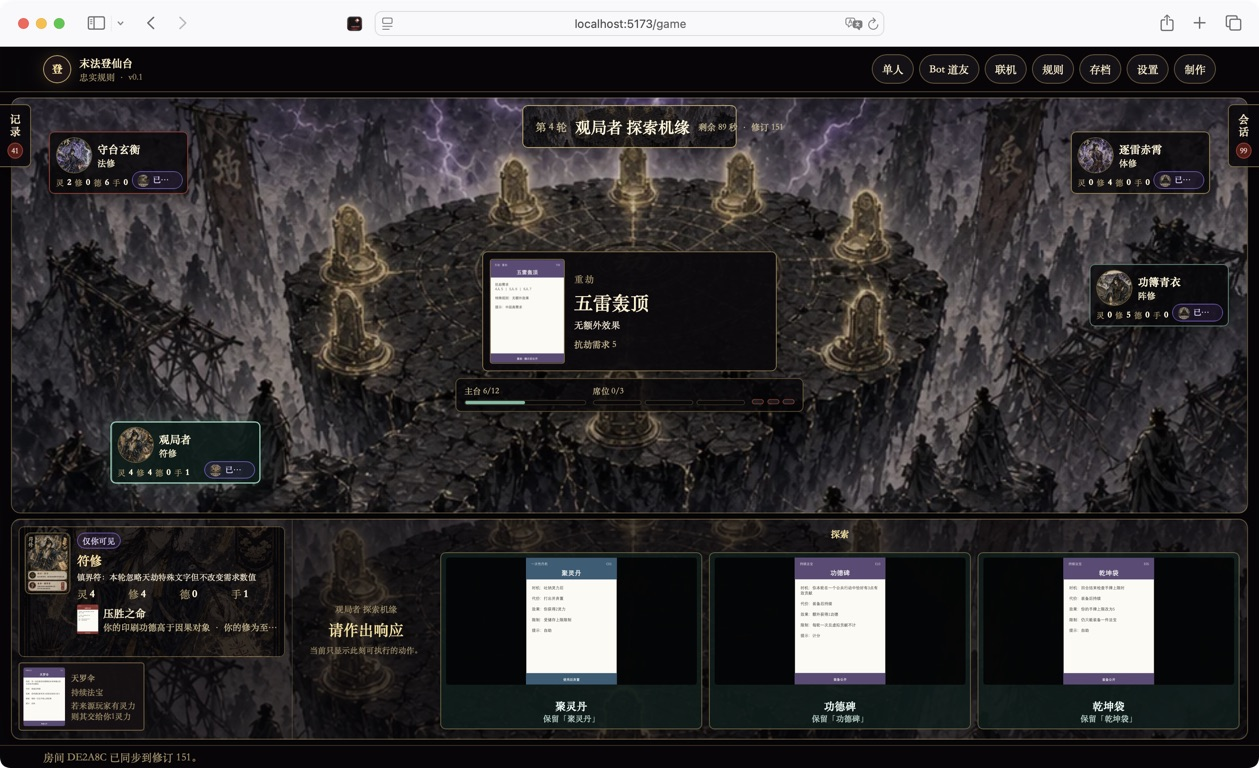
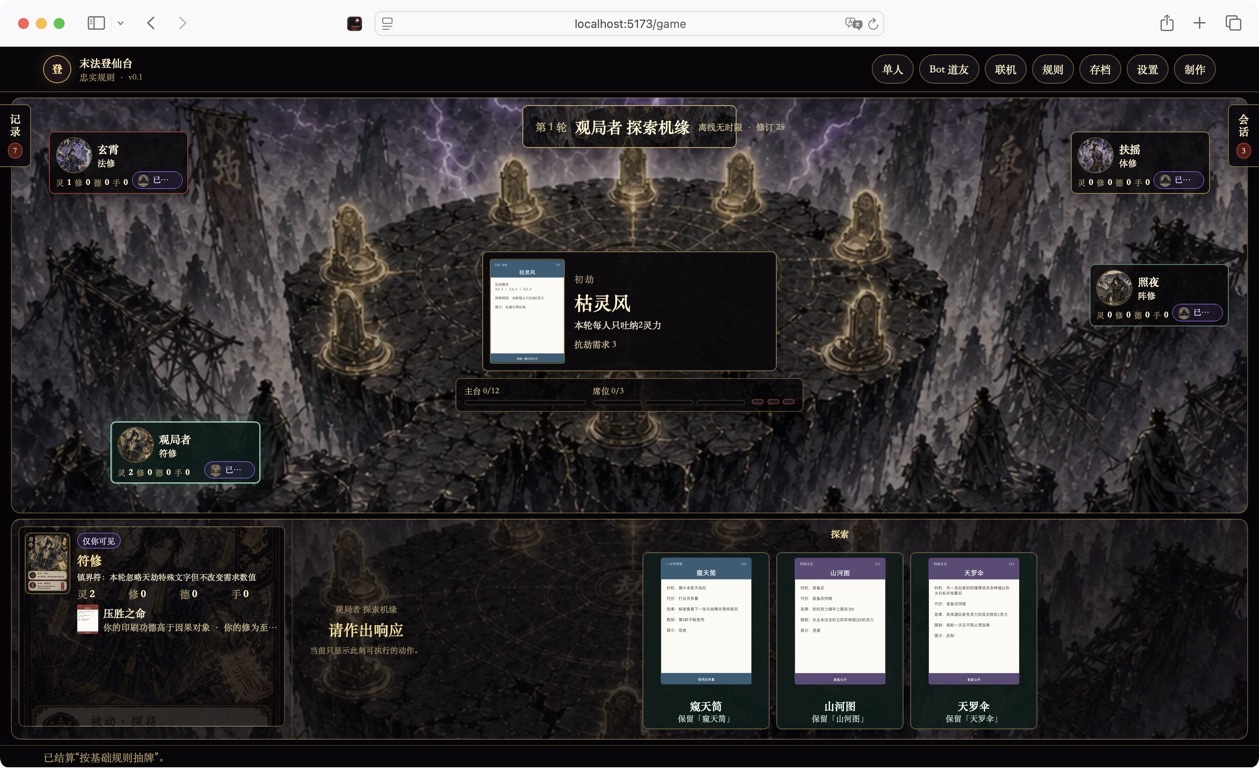
Let every choice read as a real card
Constraint: Preserve the ring-table layout at 1024x768 and 1280x720 while keeping action targets at least 44px
Rejected: Stretching one card across the available decision area | it recreated the oversized panel with a tiny inner choice that the player rejected
Confidence: high
Scope-risk: narrow
Directive: Keep source card faces uncropped and constrain sparse card-action grids instead of stretching auto-fit tracks
Tested: Safari normal window and responsive 1024x768/1280x720; first-round exploration replay; npm audit; npm run lint; npm run typecheck; npm test (74); npm run sim (120); npm run build; production health/home/card asset smoke
Not-tested: Playwright visual suite not rerun because Safari remains the user-selected browser for this visual iteration

diff --git a/src/client/styles.css b/src/client/styles.css
@@ -2367,6 +2367,9 @@ textarea {
 
 .mofa-action-dock.is-secret-plan .mofa-plan-card .mofa-action-art {
   min-height: 0;
+  background: rgba(3, 3, 4, 0.86);
+  object-fit: contain;
+  object-position: center;
 }
 
 .plan-action-options .plan-action-option {
@@ -3353,7 +3356,8 @@ textarea {
 .mofa-card-action-grid {
   min-height: 0;
   display: grid;
-  grid-template-columns: repeat(auto-fit, minmax(150px, 1fr));
+  grid-template-columns: repeat(auto-fit, minmax(150px, 190px));
+  justify-content: center;
   gap: 10px;
   overflow-y: auto;
 }
@@ -3390,10 +3394,12 @@ textarea {
 }
 
 .mofa-card-action img {
-  width: 100%;
+  width: auto;
+  max-width: 100%;
   min-height: 0;
   height: 100%;
   max-height: 190px;
+  justify-self: center;
   aspect-ratio: 63 / 88;
   border-radius: var(--radius-xs);
   background: rgba(3, 3, 4, 0.9);

diff --git a/docs/TEST_REPORT.md b/docs/TEST_REPORT.md
@@ -6,7 +6,7 @@
 
 | 检查 | 结果 | 证据 |
 |---|---|---|
-| `npm audit` | Last successful lock check: Pass | 0 vulnerabilities；本轮重试被 npm registry TLS 中断，依赖与 lockfile 未变化 |
+| `npm audit` | Pass | 0 vulnerabilities |
 | `npm run typecheck` | Pass | TypeScript 无错误 |
 | `npm run lint` | Pass | ESLint 0 warnings / 0 errors |
 | `npm test` | Pass | 6 files，74 tests |
@@ -48,6 +48,7 @@ Playwright 覆盖：
 4. 秘密计划的 1–3 灵力按钮不小于 44px，四张行动卡与确认按钮保持同屏。
 5. 连续两次主动选择探索，第二次确认抽到的三张机缘以独立上游卡面横向展示并可直接点击保留。
 6. 返回 Bot 面板后确认 DeepSeek Bot 的决策、发言、经验、缓存命中、token、预估金额和四条公开记忆均已更新。
+7. 后续在 Safari 响应式设计模式复核 1024×768 与 1280×720：秘密行动图完整显示、不裁切卡名；单张机缘/法宝响应不再撑满大底板，三张探索牌保持居中的定宽卡牌画廊。退出响应式模式后又从新局第一轮重新走到探索，并刷新 `safari-opportunity-gallery.jpg` 作为正常 Safari 窗口证据。
 
 ## 隐私与服务端权威
 
